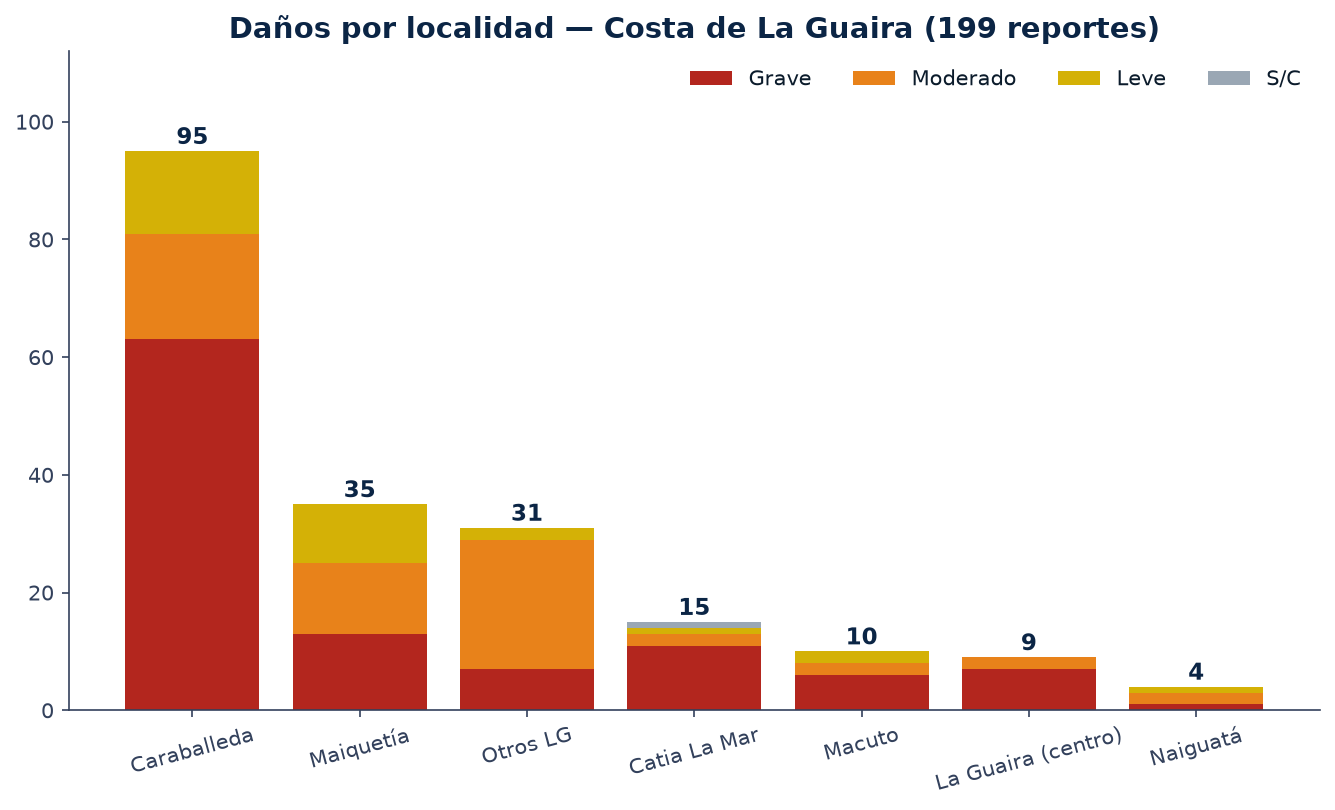
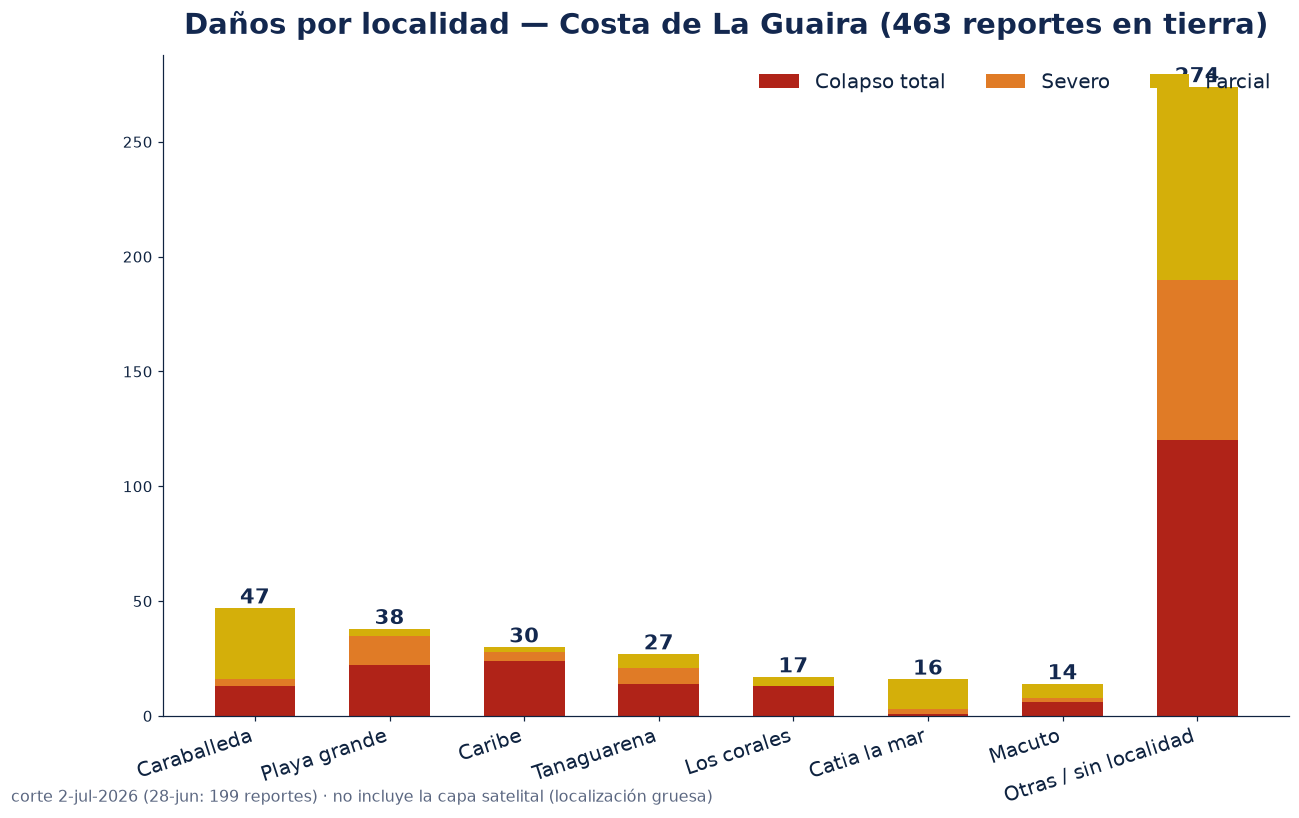
feat(informe): regenerate all 8 infographics from the unified inventory + canonical toll in live panel
The charts were frozen at the 28-jun cut (820 reports, 143 collapses, 71% LG)
while the unified inventory reached 1,761 buildings / 512 collapses — the
discrepancy the report page now resolves:

- 01 severidad: unified-inventory donut (1,761: 512 total / 782 severo / 467 parcial).
- 02 tipo de reporte: current /danos+CIVIS category mix (2,085 reports).
- 03 concentración: ground-report collapses 255 — La Guaira now 84% (was 71%);
  footer keeps the 28-jun comparison + satellite-detected collapses (257).
- 04 localidades LG: 463 ground reports, normalized zones, damage-stacked.
- 05 municipios: ground-report ranking (Caracas 469, La Guaira coast red).
- 06 perfil severidad: LG vs national %, colapso-led (46% vs 24%).
- 07/08 maps: regenerated from repo cartography (parroquias/roads/places,
  city/town labels only) + Natural-Earth VEN outline; ground ● vs satellite ◇
  markers; epicenter corrected to Veroes/Yumare.
- Every figure states its own data cut in-footer; a bridge note before the first
  figure explains figures=2-jul vs narrative=28-jun (red-teamed text untouched).
- Live panel now also shows the CANONICAL preliminary toll (ai_extract, currently
  2,295 fallecidos / 11,000 heridos — matches AP/UN/NBC reporting) via
  getCanonicalCasualties, superseding the frozen ≈1.430 figure with provenance.

Charts generated from GET /api/buildings/reported (corte 2-jul) + sos_damage
category counts; generator kept in session scratchpad (assets are data snapshots
[…]

diff --git a/src/routes/informe-danos.ts b/src/routes/informe-danos.ts
@@ -5,6 +5,7 @@ import {
   SOS_BUILDING_CATEGORIES, SAT_SOURCE, type SosDamageRow, type SatEdifRow,
 } from '../lib/tv-buildings';
 import { registrySummary } from './persons';
+import { getCanonicalCasualties } from '../lib/canonical-casualties';
 
 // Informe de Evaluación de Daños — Costa de La Guaira (terremoto doble Mw7.2+Mw7.5,
 // Falla de San Sebastián, 24-jun-2026). Renderizado DENTRO del marco principal del
@@ -176,6 +177,7 @@ apenas comenzaba).</li>
 <li><strong>Histórico:</strong> el más fuerte desde el <strong>terremoto
 de San Narciso (1900)</strong>.</li>
 </ul>
+<div style="background:#eef6ee;border:1px solid #bcd9bc;border-radius:10px;padding:10px 14px;margin:6px 0 12px;font:500 13px 'Inter',sans-serif;color:#25502c">🔄 <strong>Figuras regeneradas al corte del 2-jul-2026</strong> con el inventario unificado (reportes en tierra + capa satelital Copernicus EMS/AI4G). El texto de las secciones conserva el corte del 28-jun (820 reportes) con el que fue red-teamed; cada figura indica su corte al pie.</div>
 <p><img src="/informe-danos/assets/01_severidad_nacional.png"
 alt="Severidad nacional" /></p>
 <hr />
@@ -775,7 +777,7 @@ const musd = (n: number) => '$' + (n >= 1e9 ? (n / 1e9).toFixed(2) + ' MMM' : Ma
 
 async function livePanelHtml(env: Env): Promise<string> {
   // Same three feeds + pooling as GET /api/buildings/reported (lib/tv-buildings).
-  const [tvR, sosR, satR, reg, evalR] = await Promise.all([
+  const [tvR, sosR, satR, reg, evalR, canon] = await Promise.all([
     env.DB.prepare(
       `SELECT id, name, address, city, zone, lat, lng, damage_level, status,
               main_photo_url, media_urls, general_source, notes, has_missing_persons,
@@ -794,6 +796,7 @@ async function livePanelHtml(env: Env): Promise<string> {
     env.DB.prepare(
       `SELECT COUNT(DISTINCT building_id) AS b, COUNT(*) AS e FROM building_eval_events`,
     ).first<{ b: number; e: number }>().catch(() => null),
+    getCanonicalCasualties(env).catch(() => null),
   ]);
   const tvRows = (tvR.results ?? []) as any[];
   const sosRows = (sosR.results ?? []) as unknown as SosDamageRow[];
@@ -827,6 +830,8 @@ async function livePanelHtml(env: Env): Promise<string> {
       ${stat(musd(repl), 'Reemplazo modelado')}
       ${reg ? stat(nf(reg.missing), 'Personas buscadas') : ''}
       ${reg ? stat(nf(reg.found_safe), 'Reencontradas') : ''}
+      ${canon?.fallecidos != null ? stat(nf(canon.fallecidos), 'Fallecidos (cifra prelim.)') : ''}
+      ${canon?.heridos != null ? stat(nf(canon.heridos), 'Heridos (cifra prelim.)') : ''}
     </div>
     <div style="font:500 12.5px Inter,sans-serif;color:#33415e;margin-top:11px;line-height:1.55">
       El análisis de abajo conserva su corte del <b>28-jun</b> (820 reportes de <code>/danos</code>). Desde entonces el inventario creció a
@@ -835,7 +840,8 @@ async function livePanelHtml(env: Env): Promise<string> {
       del informe, «cerrar el punto ciego epicentral con verificación satelital», <b>está en marcha</b>).
       ${evalR && evalR.b ? `La acción (c), inspección <b>ATC-20</b>, también arrancó: pipeline de evaluación estructural N1/N2/N3 activo con <b>${nf(evalR.b)}</b> edificios priorizados y <b>${nf(evalR.e)}</b> eventos firmados (ver <a href="/edificios" style="color:#1570ef">/edificios</a>).` : ''}
       ${reg ? `Registro de personas: <b>${nf(reg.total)}</b> reportes · <b>${nf(reg.missing)}</b> buscadas · <b>${nf(reg.found_safe)}</b> reencontradas · <b>${nf(reg.hospitalized)}</b> hospitalizados (<a href="/personas" style="color:#1570ef">/personas</a>).` : ''}
-      Costos modelados HAZUS + costos reales VE 2026 — estimación de planificación, no tasación. Cifras oficiales de víctimas en <a href="/victimas" style="color:#1570ef">/victimas</a>.
+      ${canon?.fallecidos != null ? `Balance preliminar consolidado (medios internacionales · en actualización): <b>${nf(canon.fallecidos)}</b> fallecidos${canon.heridos != null ? ` · <b>${nf(canon.heridos)}</b> heridos` : ''}${canon.as_of ? ` (al ${new Date(canon.as_of).toLocaleDateString('es-VE', { day: 'numeric', month: 'short', timeZone: 'America/Caracas' })})` : ''} — supera las cifras del 27-jun citadas abajo (≈1.430).` : ''}
+      Costos modelados HAZUS + costos reales VE 2026 — estimación de planificación, no tasación. Desglose por fuente en <a href="/victimas" style="color:#1570ef">/victimas</a>.
     </div>
   </aside>`;
 }
